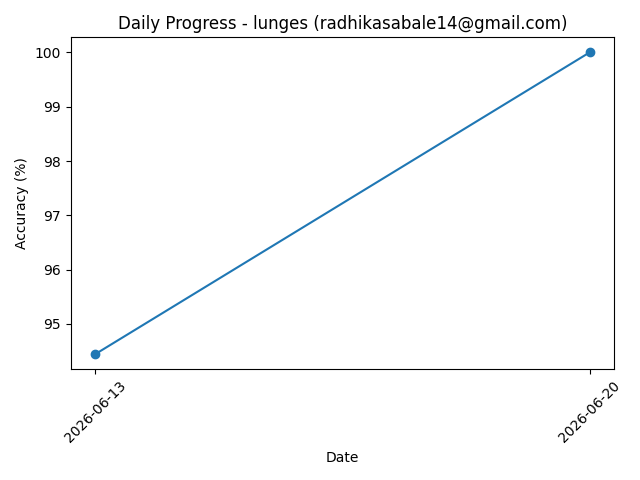
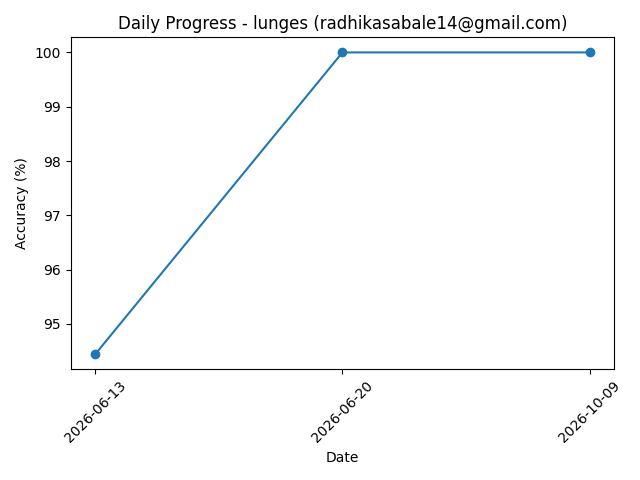
Fix camera initialization with DirectShow fallback and script execution paths

diff --git a/app.py b/app.py
@@ -78,11 +78,14 @@ def select_exercise():
     exercise = get_exercise(choice)
     print("Selected Exercise:", exercise)
 
-    # Walking launches its own script
+    # Launch exercise script with project working directory
+    base_dir = os.path.dirname(os.path.abspath(__file__))
     if exercise == "walking":
-        subprocess.Popen([sys.executable, "walking_progress_tracker.py", choice, email])
+        script = os.path.join(base_dir, "walking_progress_tracker.py")
+        subprocess.Popen([sys.executable, script, choice, email], cwd=base_dir)
     else:
-        subprocess.Popen([sys.executable, "main.py", choice, email])
+        script = os.path.join(base_dir, "main.py")
+        subprocess.Popen([sys.executable, script, choice, email], cwd=base_dir)
 
     return jsonify({"status": "success", "exercise": exercise})
 

diff --git a/main.py b/main.py
@@ -1,5 +1,9 @@
 import os
 import sys
+
+if 'tensorflow' not in sys.modules:
+    sys.modules['tensorflow'] = None
+
 import lunges
 import squats
 import step_ups
@@ -44,7 +48,17 @@ elif exercise_type == "step_ups":
     step_ups.reset()
 
 # ---------------- INITIALIZATION ----------------
-cap = cv2.VideoCapture(0)
+cap = cv2.VideoCapture(0, cv2.CAP_DSHOW)
+if not cap.isOpened():
+    cap = cv2.VideoCapture(0)
+if not cap.isOpened():
+    print("Camera index 0 not available. Trying index 1...")
+    cap = cv2.VideoCapture(1, cv2.CAP_DSHOW)
+    if not cap.isOpened():
+        cap = cv2.VideoCapture(1)
+
+if not cap.isOpened():
+    print("ERROR: Could not open any camera. Please check your camera connection and Windows privacy permissions.")
 detector = PoseDetector()
 
 if exercise_type == "knee_extension":

diff --git a/walking_progress_tracker.py b/walking_progress_tracker.py
@@ -1,8 +1,11 @@
+import sys
+if 'tensorflow' not in sys.modules:
+    sys.modules['tensorflow'] = None
+
 import cv2
 import mediapipe as mp
 import numpy as np
 import time
-import sys
 from data_manager import DataManager
 
 mp_drawing = mp.solutions.drawing_utils
@@ -39,7 +42,13 @@ start_time = time.time()
 total_distance = 0
 feedback = ""
 
-cap = cv2.VideoCapture(0)
+cap = cv2.VideoCapture(0, cv2.CAP_DSHOW)
+if not cap.isOpened():
+    cap = cv2.VideoCapture(0)
+if not cap.isOpened():
+    cap = cv2.VideoCapture(1, cv2.CAP_DSHOW)
+    if not cap.isOpened():
+        cap = cv2.VideoCapture(1)
 
 with mp_pose.Pose(
     static_image_mode=False,

diff --git a/pose_detection.py b/pose_detection.py
@@ -1,3 +1,7 @@
+import sys
+if 'tensorflow' not in sys.modules:
+    sys.modules['tensorflow'] = None
+
 import cv2
 import mediapipe as mp
 
